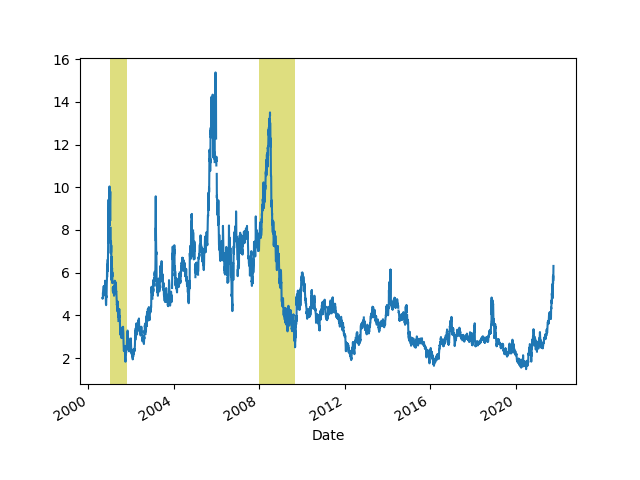
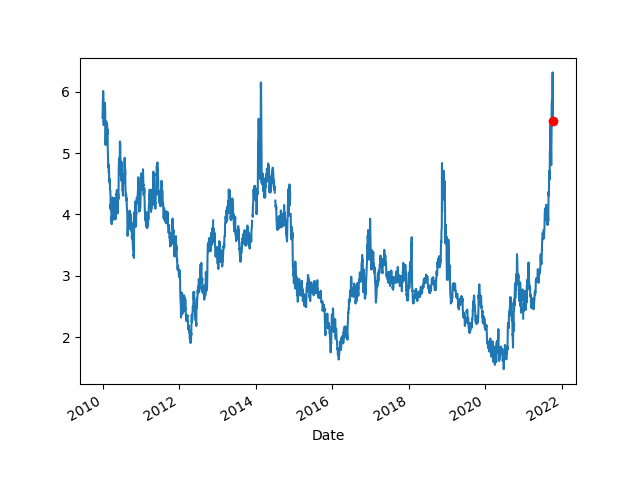
-

diff --git a/en/README.md b/en/README.md
@@ -1,81 +1,80 @@
 <img src="https://drive.google.com/uc?export=view&id=1B2wf9R7AMH1d7Vw6e2mucLbIQ5NSjir7"/>
 
-The Mandarin: "US prepares for potential $1.3b sale of navy helicopters to Australia"
+
+"Shell and the consortium partners—including McDermott's CB&I Storage
+Solutions, NASA's Kennedy Space Center, GenH2 and the University of
+Houston—have been selected by the U.S. Department of Energy's (DOE)
+Hydrogen and Fuel Cell Technologies Office to demonstrate that a
+large-scale LH2 tank, with a capacity ranging from 20,000 to 100,000
+cubic meters, is both feasible and cost competitive at import and
+export terminals"
+
+[[-]](https://www.wjhg.com/prnewswire/2021/10/13/shell-led-consortium-selected-by-doe-demonstrate-feasibility-large-scale-liquid-hydrogen-storage/)
 
 ---
 
-This tech can form the basis of a portable, plug-and-play heating
-infrastructure wout fossil, or electricity. CHP can handle the rest.
+Some fall in natgas prices.. ok..
 
-Lavo: "BBQ functions in a unique manner by relying on heat exchange
-technology, a chemical reaction between hydrogen and oxygen to create
-heat and disperse it to the hotplate. This solution delivers a
-barbeque that operates without flames, only producing heat and steam
-as a by-product, the portable BBQ hotplate can reach 200 degrees
-Celsius"
-
-[[-]](https://www.design-industry.com.au/lavo-hydrogen-bbq)
+[[-]](2019/05/stats#natgas)
 
 ---
 
-UNSW and Lavo already created a prototype for that H2 BBQ
-machine. Excellent.
+"Macron pushes nuclear, hydrogen power in €30 billion plan"
 
-<img width="200" src="https://pbs.twimg.com/media/FBfPkldWUAATEjD?format=jpg&name=small"/>
-
----
-
-Here's an idea: don't unclog it.
-
-"The commercial pipeline that each year brings $1 trillion worth of
-toys, clothing, electronics and furniture from Asia to the United
-States is clogged and no one knows how to unclog it"
+[[-]](https://www.france24.com/en/france/20211012-macron-unveils-%E2%82%AC30-billion-investment-plan-to-re-industralise-france)
 
 ---
 
-Spotify... FYI, Focker is an early [investor](https://community.spotify.com/t5/Other-Podcasts-Partners-etc/Get-Peter-Thiel-s-Founder-s-Fund-out-of-Spotify-s-financing/td-p/1571394)
-there. 
+😶 😶 😶 
+
+"New South Wales Reveals its 80 Billion Dollar Green Hydrogen
+Strategy. Strategy designed to speed up its transition to zero
+emissions by giving $3 billion in incentives & attracting 80 billion
+dollars in new infrastructure"
+
+[[-]](https://bit.ly/3lxJpoa)
 
 ---
 
-The gateway drug into the corrupt liberterian circles funded by Thiel
-money seem to be anti-Wokeism (SJW is a problem but no need for these
-muckers to fight it), and an excessive distaste for any governance,
-electoral politics, etc.. The shtick attracts ppl from left or
-right -- noone bright fortunately
+Not surprising at all; UK cons are eating into low-income votes, so
+taking votes from Labor, but then losing to Lib Dems for the same
+reason.  This is really odd though.. The party of Thatcher? I dont
+care personally for it, but this is a good chunk of ideology that
+needs representation IMO.
+
+"[6/2021] Lib Dems seize Chesham and Amersham seat off Tories"
+
+"[5/2021] Conservatives hail historic Labour defeat in Hartlepool"
 
 ---
 
-Green groups naturally object. The plant in q is one of the biggest
-polluters in UK.
+That would be a license to kill.. U dont want to be on those boats
 
-Here's a way to look at it; Carbon was taken off the air, why put it
-back in?
-
-"[P]lans are being pioneered by [UK] Drax Group, which claims that
-burning wood pellets is carbon-neutral because trees absorb as much
-carbon dioxide when they grow as they emit when they are
-burnt. Capturing the carbon emissions from biomass power plants would
-then effectively create 'negative carbon emissions', according to
-Drax"
-
-[[-]](https://www.theguardian.com/business/2021/mar/23/green-groups-dispute-power-station-claim-biomass-carbon-neutral)
+"Border Force staff who enact ..  plans to 'push back' migrant boats
+in the Channel could be given immunity from conviction"
 
 ---
 
-Tech CEOs.. These guys mostly throw stuff into a bowl and see what
-comes out.. some are better at it than others, like Jobs. Genius inventors? By even as
-late as 2006 Apple was trying to stuff a phone [into an iPod](2021/10/the-one-device-merchant.md).
-Imagine that, trying to dial people with that wheel..
+"@StartsWithABang
 
-"Steve Jobs was a genius. How dare you? He invented the iPhone"
+Two years ago, the obituaries in my local newspaper were filled with
+80+ year olds, battling cancer and heart disease. Now they're all
+40-70 year olds, mostly men, mostly healthy, with undisclosed
+causes. (Likely COVID-19 and unvaccinated.) Enough preventable
+deaths. Please"
 
 ---
 
-So that governments [can fuel](2021/10/entrepreneuel-state-mazzucato.md#jobs) the
-research that companies like theirs feast off regularly.
+Of course, let's not forget about *Hunger Games*, came out in 2012,
+the year of peak inequality.
 
-"Why should companies pay their taxes, like Apple?"
+It's all there in the stats.. It's crazy.
+
+---
+
+Harbor Tea Rooms - Midnight Hour \#music
+
+[[-]](https://youtu.be/gzNU7aRvA9E)
 
 ---
 

diff --git a/en/tweets/2021/week41.md b/en/tweets/2021/week41.md
@@ -1,5 +1,84 @@
 # Week 41
 
+The Mandarin: "US prepares for potential $1.3b sale of navy helicopters to Australia"
+
+---
+
+This tech can form the basis of a portable, plug-and-play heating
+infrastructure wout fossil, or electricity. CHP can handle the rest.
+
+Lavo: "BBQ functions in a unique manner by relying on heat exchange
+technology, a chemical reaction between hydrogen and oxygen to create
+heat and disperse it to the hotplate. This solution delivers a
+barbeque that operates without flames, only producing heat and steam
+as a by-product, the portable BBQ hotplate can reach 200 degrees
+Celsius"
+
+[[-]](https://www.design-industry.com.au/lavo-hydrogen-bbq)
+
+---
+
+UNSW and Lavo already created a prototype for that H2 BBQ
+machine. Excellent.
+
+<img width="200" src="https://pbs.twimg.com/media/FBfPkldWUAATEjD?format=jpg&name=small"/>
+
+---
+
+Here's an idea: don't unclog it.
+
+"The commercial pipeline that each year brings $1 trillion worth of
+toys, clothing, electronics and furniture from Asia to the United
+States is clogged and no one knows how to unclog it"
+
+---
+
+Spotify... FYI, Focker is an early [investor](https://community.spotify.com/t5/Other-Podcasts-Partners-etc/Get-Peter-Thiel-s-Founder-s-Fund-out-of-Spotify-s-financing/td-p/1571394)
+there. 
+
+---
+
+The gateway drug into the corrupt liberterian circles funded by Thiel
+money seem to be anti-Wokeism (SJW is a problem but no need for these
+muckers to fight it), and an excessive distaste for any governance,
+electoral politics, etc.. The shtick attracts ppl from left or
+right -- noone bright fortunately
+
+---
+
+Green groups naturally object. The plant in q is one of the biggest
+polluters in UK.
+
+Here's a way to look at it; Carbon was taken off the air, why put it
+back in?
+
+"[P]lans are being pioneered by [UK] Drax Group, which claims that
+burning wood pellets is carbon-neutral because trees absorb as much
+carbon dioxide when they grow as they emit when they are
+burnt. Capturing the carbon emissions from biomass power plants would
+then effectively create 'negative carbon emissions', according to
+Drax"
+
+[[-]](https://www.theguardian.com/business/2021/mar/23/green-groups-dispute-power-station-claim-biomass-carbon-neutral)
+
+---
+
+Tech CEOs.. These guys mostly throw stuff into a bowl and see what
+comes out.. some are better at it than others, like Jobs. Genius inventors? By even as
+late as 2006 Apple was trying to stuff a phone [into an iPod](2021/10/the-one-device-merchant.md).
+Imagine that, trying to dial people with that wheel..
+
+"Steve Jobs was a genius. How dare you? He invented the iPhone"
+
+---
+
+So that governments [can fuel](2021/10/entrepreneuel-state-mazzucato.md#jobs) the
+research that companies like theirs feast off regularly.
+
+"Why should companies pay their taxes, like Apple?"
+
+---
+
 Down with the suit
 
 "@TeleFashion

diff --git a/en/2019/05/stats.md b/en/2019/05/stats.md
@@ -681,11 +681,11 @@ plt.savefig('oil.png')
 
 ```text
 Date
-2021-09-13    70.449997
-2021-09-14    70.459999
-2021-09-15    72.610001
-2021-09-16    72.610001
-2021-09-17    71.970001
+2021-10-07    78.300003
+2021-10-08    79.349998
+2021-10-11          NaN
+2021-10-12          NaN
+2021-10-13    80.519997
 Name: Close, dtype: float64
 ```
 
@@ -711,7 +711,7 @@ plt.savefig('crude-production.png')
 import pandas as pd, datetime, time as timelib
 import urllib.request as urllib2, io
 end = datetime.datetime.now()
-start=datetime.datetime(2000, 1, 1)
+start=datetime.datetime(2010, 1, 1)
 start = int(timelib.mktime(start.timetuple()))
 end = int(timelib.mktime(end.timetuple()))
 base_fin_url = "https://query1.finance.yahoo.com/v7/finance/download"
@@ -720,21 +720,20 @@ r = urllib2.urlopen(url).read()
 file = io.BytesIO(r)
 df = pd.read_csv(file,index_col='Date',parse_dates=True)['Adj Close']
 df.plot()
-plt.axvspan('01-03-2001', '27-10-2001', color='y', alpha=0.5, lw=0)
-plt.axvspan('22-12-2007', '09-05-2009', color='y', alpha=0.5, lw=0)
+plt.plot(df.tail(1).index, df.tail(1),'ro')
 print (df.tail(7))
 plt.savefig('natgas.png')
 ```
 
 ```text
 Date
-2021-09-28    5.841
-2021-09-29    5.477
-2021-09-30    5.867
-2021-10-01    5.619
-2021-10-04    5.766
 2021-10-05    6.312
-2021-10-06    6.316
+2021-10-06    5.675
+2021-10-07    5.677
+2021-10-08    5.565
+2021-10-11      NaN
+2021-10-12      NaN
+2021-10-13    5.529
 Name: Adj Close, dtype: float64
 ```
 
